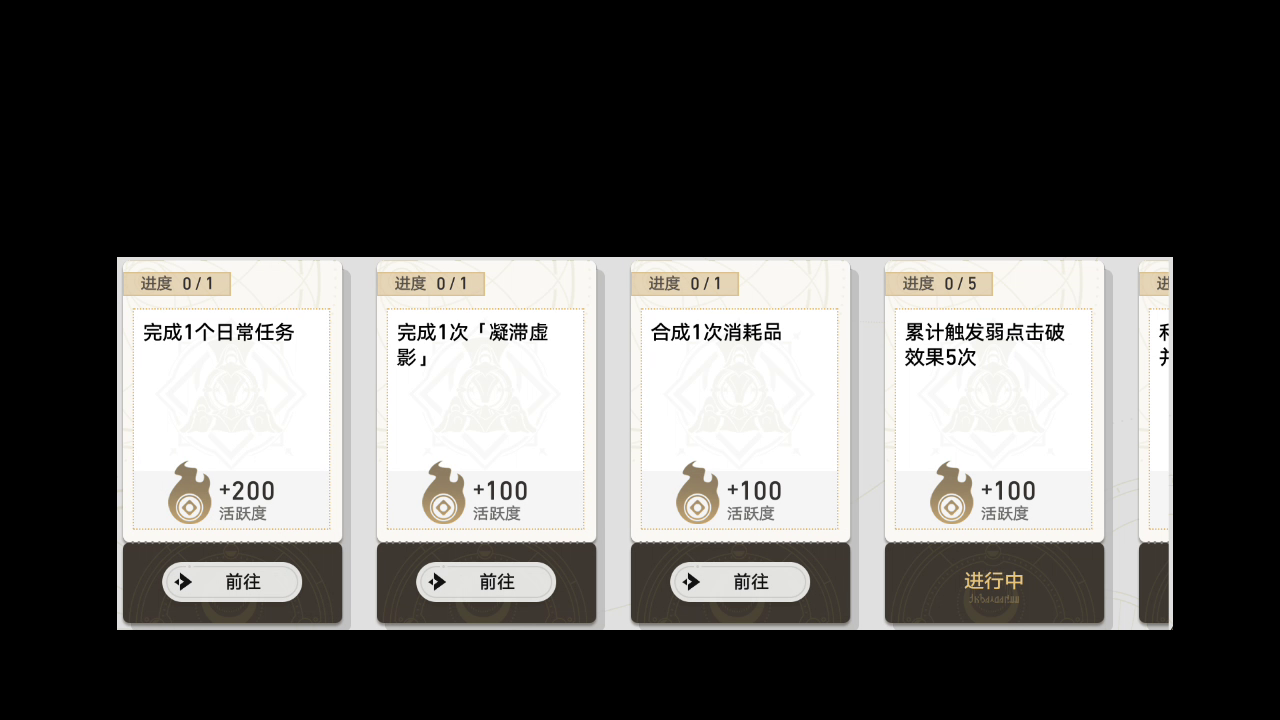
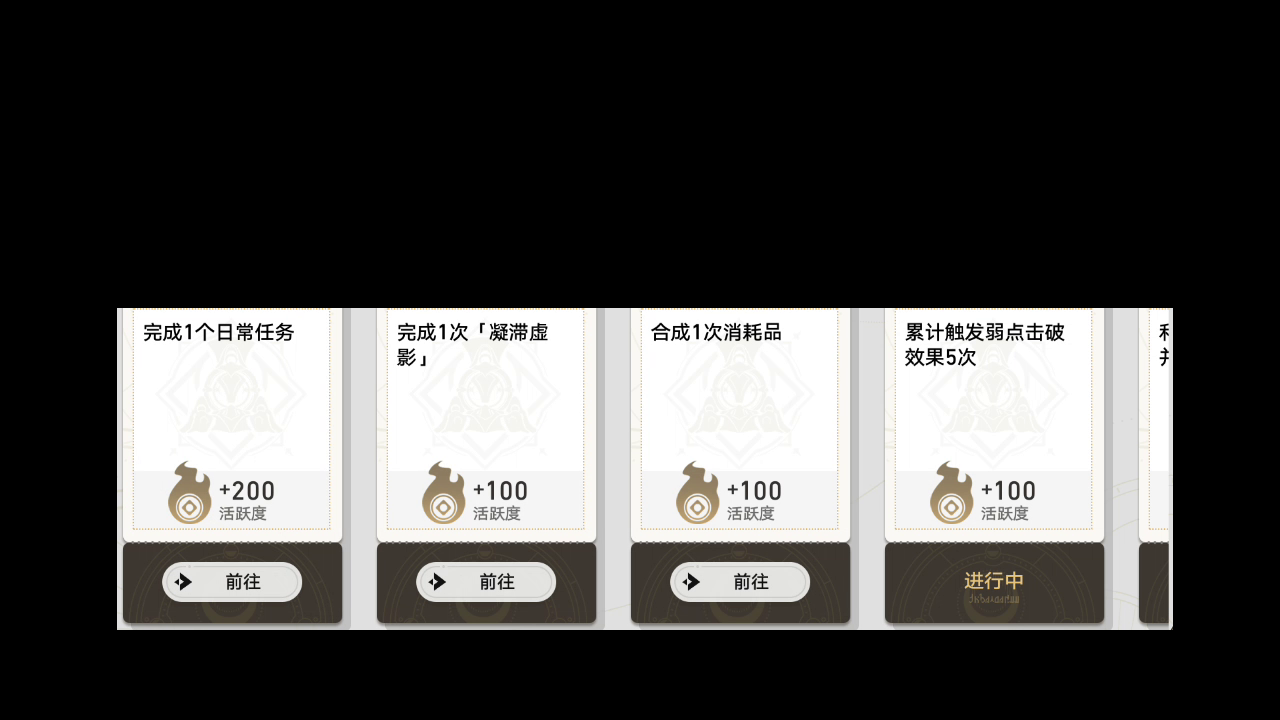
Opt: Remove "+200Activity" and "Progress0/1" in daily quest OCR

Changed region(s): [[0.0938, 0.3361, 0.9375, 0.4278]]

diff --git a/tasks/daily/daily_quest.py b/tasks/daily/daily_quest.py
@@ -1,9 +1,12 @@
+import cv2
 import numpy as np
 
 from module.base.timer import Timer
-from module.logger import *
+from module.base.utils import crop
+from module.logger import logger
 from module.ocr.ocr import Ocr, OcrResultButton
 from module.ocr.utils import split_and_pair_buttons
+from tasks.battle_pass.keywords import KEYWORD_BATTLE_PASS_QUEST
 from tasks.daily.assets.assets_daily_reward import *
 from tasks.daily.camera import CameraUI
 from tasks.daily.keywords import (
@@ -19,12 +22,18 @@ from tasks.dungeon.keywords import KEYWORDS_DUNGEON_TAB
 from tasks.dungeon.ui import DungeonUI
 from tasks.item.consumable_usage import ConsumableUsageUI
 from tasks.item.relics import RelicsUI
-from tasks.battle_pass.keywords import KEYWORD_BATTLE_PASS_QUEST
 
 
 class DailyQuestOcr(Ocr):
-    def __init__(self, button: ButtonWrapper, lang=None, name=None):
-        super().__init__(button, lang, name)
+    merge_thres_y = 20
+
+    def pre_process(self, image):
+        image = super().pre_process(image)
+        image = crop(image, OCR_DAILY_QUEST.area)
+        mask = MASK_DAILY_QUEST.matched_button.image
+        # Remove "+200Activity"
+        cv2.bitwise_and(image, mask, dst=image)
+        return image
 
     def after_process(self, result):
         result = super().after_process(result)
@@ -91,8 +100,7 @@ class DailyQuestUI(DungeonUI):
 
     def _ocr_single_page(self) -> list[OcrResultButton]:
         ocr = DailyQuestOcr(OCR_DAILY_QUEST)
-        ocr.merge_thres_y = 20
-        results = ocr.matched_ocr(self.device.image, [DailyQuestState, DailyQuest])
+        results = ocr.matched_ocr(self.device.image, [DailyQuestState, DailyQuest], direct_ocr=True)
         if len(results) < 8:
             logger.warning(f"Recognition failed at {8 - len(results)} quests on one page")
 

diff --git a/tasks/daily/assets/assets_daily_reward.py b/tasks/daily/assets/assets_daily_reward.py
@@ -210,13 +210,23 @@ DAILY_QUEST_RIGHT_END = ButtonWrapper(
         button=(401, 259, 411, 632),
     ),
 )
+MASK_DAILY_QUEST = ButtonWrapper(
+    name='MASK_DAILY_QUEST',
+    share=Button(
+        file='./assets/share/daily/reward/MASK_DAILY_QUEST.png',
+        area=(117, 308, 1173, 630),
+        search=(97, 288, 1193, 650),
+        color=(208, 208, 208),
+        button=(117, 308, 1173, 630),
+    ),
+)
 OCR_DAILY_QUEST = ButtonWrapper(
     name='OCR_DAILY_QUEST',
     share=Button(
         file='./assets/share/daily/reward/OCR_DAILY_QUEST.png',
-        area=(117, 257, 1173, 630),
-        search=(97, 237, 1193, 650),
-        color=(208, 206, 202),
-        button=(117, 257, 1173, 630),
+        area=(117, 308, 1173, 630),
+        search=(97, 288, 1193, 650),
+        color=(204, 202, 199),
+        button=(117, 308, 1173, 630),
     ),
 )
